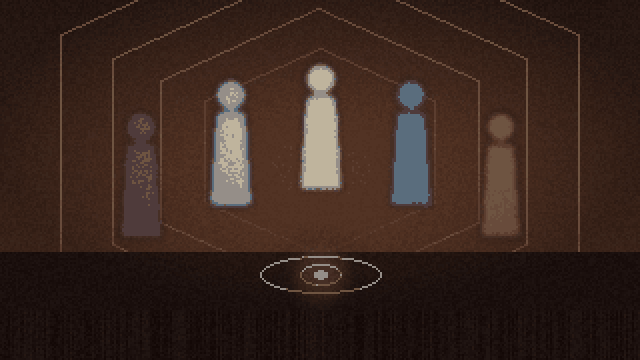
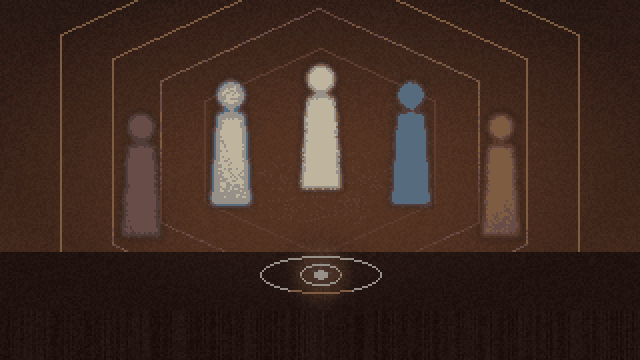
Gate the flats on the plot and make street intros follow progress
Southtown's south exit led to the Restricted Road and on into the sand
flats on foot, so the Act 1 climax could be reached before Lynx's scene.
The flats now wait for that scene (World.EXIT_GATES), and a street's intro
can name the story flag it assumes: before it, a neutral early line plays
and the real intro waits for the first visit after the flag (Zeta and
Park, Hill Road's nurse, the Restricted Road). The night tint is a little
lighter, the painted panels less vignetted, and cut scene captions get a
taller band. A dev flag (dev_outage) forces the first outage for tests.

Claude-Session: https://claude.ai/code/session_01B2ggZ7uvmcjyRPxg6sEM7Z

diff --git a/tools/gen_panels.py b/tools/gen_panels.py
@@ -159,7 +159,7 @@ def opening_car():
     for _ in range(150):
         x, y = r.randint(28, W - 28), r.randint(12, 110)
         im.putpixel((x, y), lerp(im.getpixel((x, y)), (110, 100, 80), 0.35))
-    vignette(im, 0.5)
+    vignette(im, 0.35)
     noise(im, 4, 2)
     finish(im, "cs_opening_2")
 
@@ -204,7 +204,7 @@ def opening_tower():
     d.rectangle([236, 60, 240, 152], fill=(40, 42, 50))
     d.rectangle([228, 56, 248, 62], fill=(60, 62, 70))
     im = glow(im, [(238, 64, 16)], lerp(AMBER, (255, 255, 255), 0.2), radius=10, alpha=0.5)
-    vignette(im, 0.5)
+    vignette(im, 0.35)
     noise(im, 5, 3)
     finish(im, "cs_opening_3")
 
@@ -256,7 +256,7 @@ def outage_boulevard():
     d.polygon([(16, 150), (60, 150), (54, 140), (24, 140)], fill=(22, 22, 30))
     d.rectangle([250, 150, 314, 178], fill=(16, 16, 22))
     d.polygon([(260, 150), (304, 150), (298, 140), (268, 140)], fill=(22, 22, 30))
-    vignette(im, 0.45)
+    vignette(im, 0.35)
     noise(im, 5, 4)
     finish(im, "cs_outage_1", 20)
 
@@ -297,7 +297,7 @@ def outage_crowd():
             d.ellipse([hx - headr + 1, hy - headr + 1, hx + headr - 1, hy + 1], outline=lerp(TEAL, body, 0.7))
             glows.append((hx, hy, int(5 * scale)))
     im = glow(im, glows, TEAL, radius=6, alpha=0.3)
-    vignette(im, 0.6)
+    vignette(im, 0.35)
     noise(im, 4, 5)
     finish(im, "cs_outage_2", 36)
 
@@ -337,7 +337,7 @@ def dream_desk():
     d.ellipse([157, 110, 167, 118], outline=RED, width=1)
     d.ellipse([160, 112, 164, 116], fill=RED)
     im = glow(im, [(162, 114, 12)], RED, radius=8, alpha=0.5)
-    vignette(im, 0.6)
+    vignette(im, 0.35)
     noise(im, 5, 6)
     finish(im, "dream_desk")
 
@@ -373,7 +373,7 @@ def dream_chamber():
     d.ellipse([150, 156, 170, 166], outline=AMBER)
     d.ellipse([157, 159, 163, 163], fill=AMBER)
     im = glow(im, [(160, 161, 12)], AMBER, radius=8, alpha=0.4)
-    vignette(im, 0.45)
+    vignette(im, 0.35)
     noise(im, 4, 7)
     finish(im, "dream_chamber", 24)
 
@@ -409,7 +409,7 @@ def dream_door():
     d.rectangle([154, 118, 166, 150], fill=(220, 200, 120))
     d.ellipse([152, 104, 168, 120], fill=(30, 22, 20))
     d.rectangle([156, 134, 164, 150], fill=(200, 170, 140))
-    vignette(im, 0.5)
+    vignette(im, 0.35)
     noise(im, 5, 8)
     finish(im, "dream_door")
 
